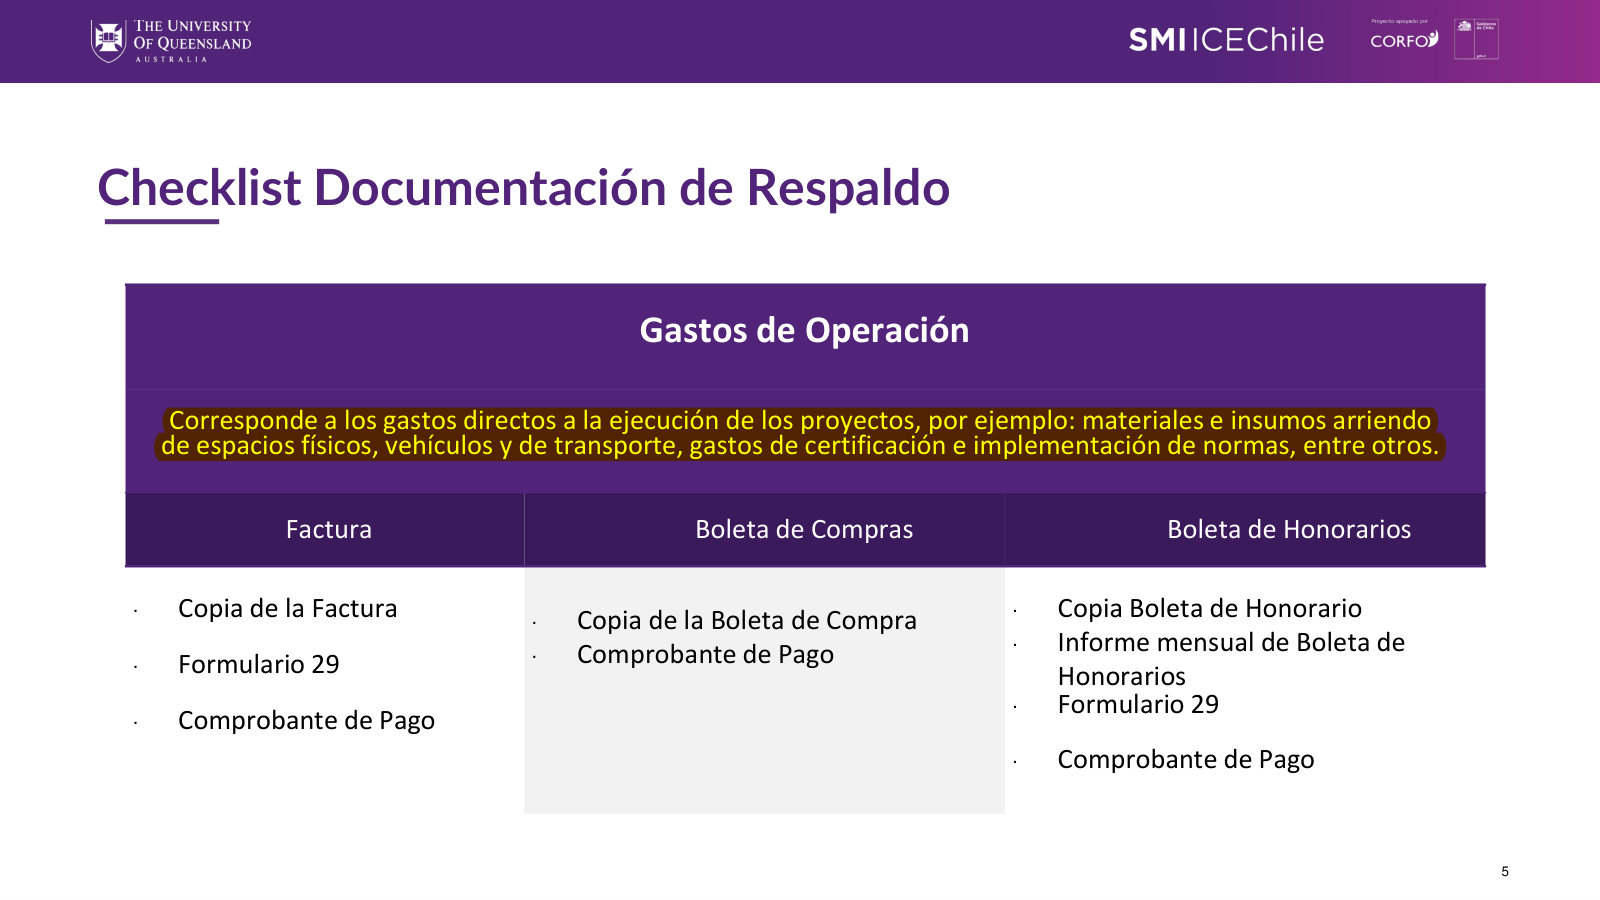
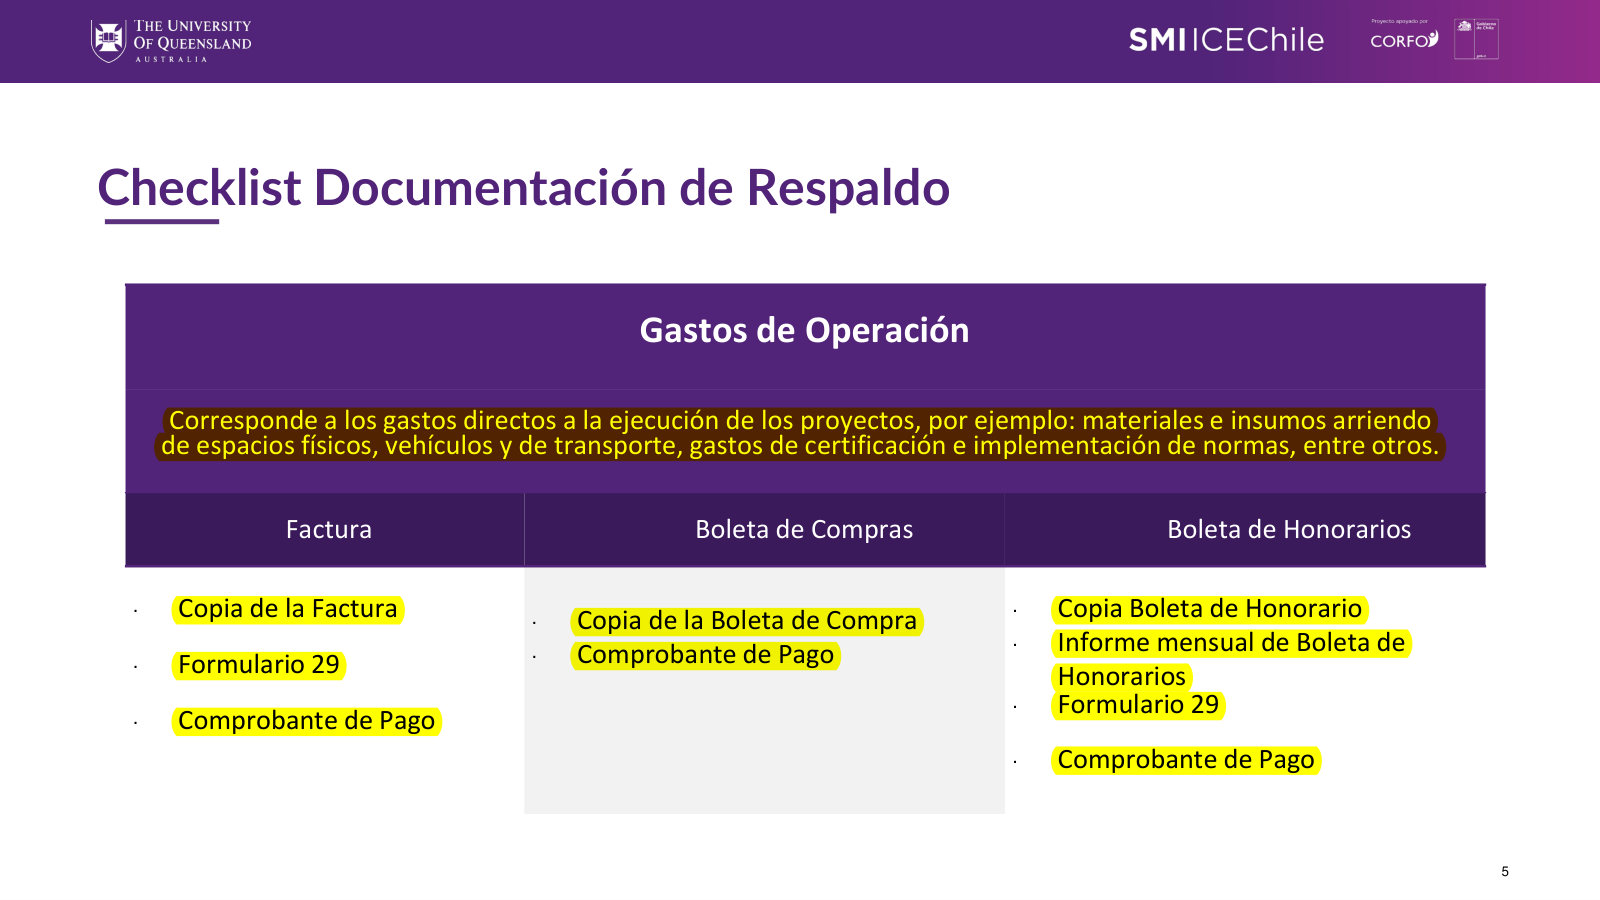
Extractos en amarillo: se marcan las listas de documentos de la diapositiva 5 y la fila de 2 tasaciones del Manual p. 19 (rf-v3-33)

Changed region(s): [[0.6562, 0.6533, 0.9062, 0.8711], [0.0938, 0.6533, 0.2812, 0.84], [0.3438, 0.6533, 0.5938, 0.7467]]

diff --git a/sw.js b/sw.js
@@ -1,5 +1,5 @@
 /* Rinde Fácil: guarda los archivos de la app para que abra sin conexión. Los datos del usuario NO pasan por aquí. */
-var VERSION = 'rf-v3-32';
+var VERSION = 'rf-v3-33';
 var CORE = ['./', 'index.html', 'css/app.css', 'manifest.webmanifest', 'assets/icon.svg', 'vendor/parser.js', 'js/00-service-trust.js', 'js/01-util.js', 'js/02-store.js', 'js/03-crypto.js', 'js/04-vault.js', 'js/05-auth.js', 'js/10-data.js', 'js/11-tramites.js', 'js/12-needs.js', 'js/13-holidays.js', 'js/20-logic.js', 'js/26-receipt.js', 'js/27-search.js','js/21-export.js', 'js/22-export-pro.js', 'js/30-ui.js', 'js/31-forms.js', 'js/32-tools-plan.js', 'js/33-cloud.js', 'js/34-tools-gastos.js', 'js/36-drive.js', 'js/38-tools-needs.js', 'js/37-repo.js', 'js/35-flow.js', 'js/39-auth-ui.js', 'js/41-tools-share.js', 'js/42-tools-calendar.js', 'js/43-tools-f29.js', 'js/44-tools-historial.js', 'js/45-tools-obras.js', 'js/46-dashboard.js', 'js/47-expediente.js', 'js/40-views.js', 'js/50-search.js','js/60-app.js'];
 self.addEventListener('install', function (e) { e.waitUntil(caches.open(VERSION).then(function (c) { return c.addAll(CORE); }).then(function () { return self.skipWaiting(); })); });
 self.addEventListener('activate', function (e) { e.waitUntil(caches.keys().then(function (ks) { return Promise.all(ks.filter(function (k) { return k !== VERSION; }).map(function (k) { return caches.delete(k); })); }).then(function () { return self.clients.claim(); })); });

diff --git a/tools/hl_apply.py b/tools/hl_apply.py
@@ -56,6 +56,13 @@ def find_span(words, sentence):
     return None, "no encontrada"
 
 
+def find_all(words, sentence):
+    toks = [norm(x) for x in sentence.split() if norm(x)]
+    ns = [w["n"] for w in words]
+    n = len(toks)
+    return [(i, i + n) for i in range(0, len(ns) - n + 1) if n and ns[i:i + n] == toks]
+
+
 def dump(key, pno, src):
     doc = fitz.open(os.path.join(src, PDF[key]))
     page = doc[pno - 1]
@@ -80,6 +87,14 @@ def apply_spec(spec, src, out):
         words = page_words(page)
         used, rep = [], {"file": "%s_p%03d.jpg" % (key, pno), "sentences": [], "problems": []}
         for s in item["sentences"]:
+            if isinstance(s, dict):  # {"t": "Formulario 29", "all": true}: marca TODAS las apariciones exactas
+                spans = find_all(words, s["t"])
+                rep["sentences"].append({"text": s["t"], "match": "exacta x%d" % len(spans)})
+                if not spans:
+                    rep["problems"].append("NO ENCONTRADA: " + s["t"][:80])
+                for sp in spans:
+                    used += words[sp[0]:sp[1]]
+                continue
             span, how = find_span(words, s)
             rep["sentences"].append({"text": s[:70] + ("…" if len(s) > 70 else ""), "match": how})
             if span is None:
